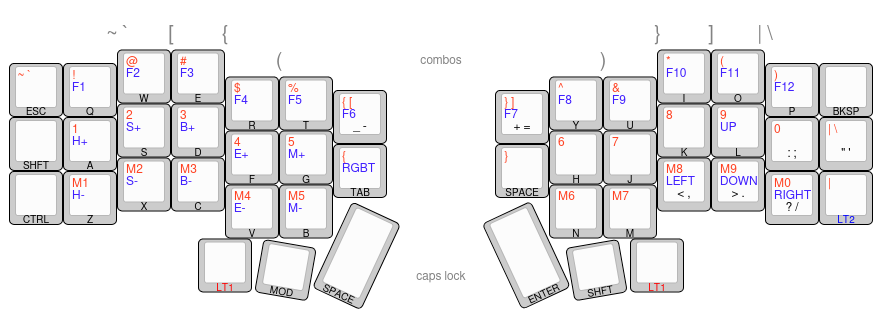
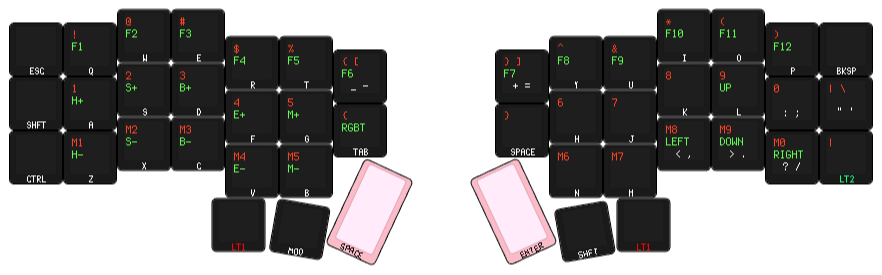
new layout style

diff --git a/x3hy/keymap.c b/x3hy/keymap.c
@@ -72,17 +72,17 @@ enum combos {
 	backslash_combo
 };
 
-const uint16_t PROGMEM left_bracket[] =  {KC_W, KC_E, COMBO_END};
-const uint16_t PROGMEM left_curly[] =    {KC_E, KC_R, COMBO_END};
-const uint16_t PROGMEM left_paren[] =    {KC_R, KC_T, COMBO_END};
+const uint16_t PROGMEM tilda_tick[] =    {KC_D, KC_F, COMBO_END};
+const uint16_t PROGMEM left_paren[] =    {KC_Z, KC_X, COMBO_END};
+const uint16_t PROGMEM left_curly[] =    {KC_X, KC_C, COMBO_END};
+const uint16_t PROGMEM left_bracket[] =  {KC_C, KC_V, COMBO_END};
 
-const uint16_t PROGMEM right_paren[] =   {KC_Y, KC_U, COMBO_END};
-const uint16_t PROGMEM right_curly[] =   {KC_U, KC_I, COMBO_END};
-const uint16_t PROGMEM right_bracket[] = {KC_I, KC_O, COMBO_END};
+const uint16_t PROGMEM backslash[] =     {KC_J, KC_K, COMBO_END};
+const uint16_t PROGMEM right_paren[] =   {KC_DOT, KC_SLSH, COMBO_END};
+const uint16_t PROGMEM right_bracket[] = {KC_COMM, KC_DOT, COMBO_END};
+const uint16_t PROGMEM right_curly[] =   {KC_M, KC_COMM, COMBO_END};
 
 const uint16_t PROGMEM caps_lock[] = {KC_SPC, KC_ENT, COMBO_END};
-const uint16_t PROGMEM tilda_tick[] = {KC_Q, KC_W, COMBO_END};
-const uint16_t PROGMEM backslash[] = {KC_O, KC_P, COMBO_END};
 
 combo_t key_combos[] = {
 	[left_bracket_combo]  = COMBO(left_bracket, KC_LBRC),